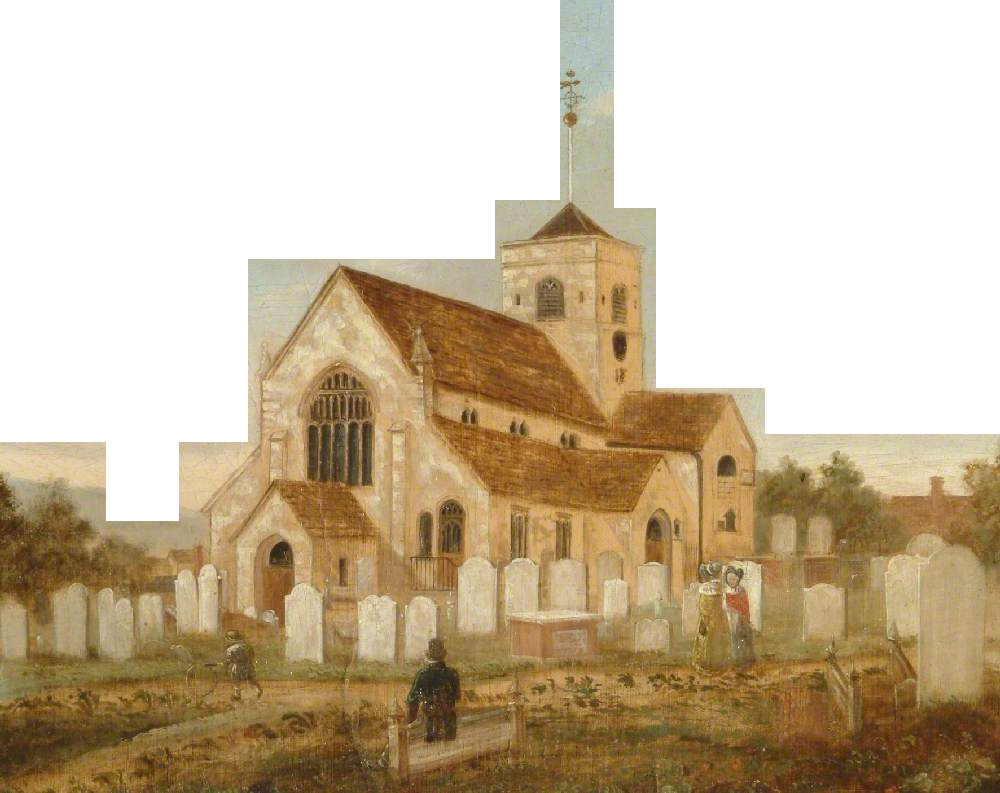
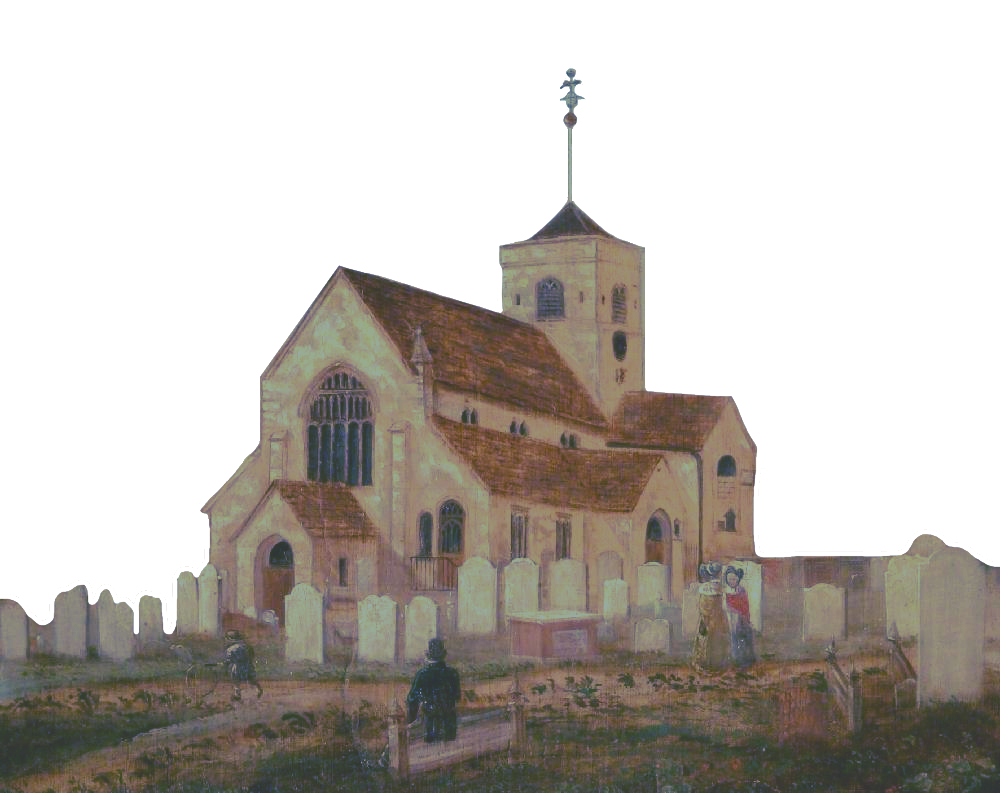
medieval period continued

diff --git a/data/medieval/medieval.html b/data/medieval/medieval.html
@@ -9,6 +9,7 @@
   <link rel="stylesheet" href="/src/parallax.css"/>
   <!-- ERA SPECIFIC CSS -->
   <link rel="stylesheet" href="/data/medieval/medieval.css" />
+  <link rel="stylesheet" href="/data/medieval/medieval-dialogue.css" />
 </head>
 
 <body>
@@ -19,16 +20,21 @@
   <div id="scene-container">
     <!-- The lower the line, the more in front the image is (higher depth value) -->
     <div class="parallax-item parallax-full bg" data-depth="0.1" data-tilt="0.08"></div>
-    <div class="parallax-item parallax-full clouds" data-depth="0.14" data-tilt="0.1"></div>
+
+    <div class="parallax-item parallax-full castle" data-depth="0.1" data-tilt="0.1"></div>
+    <!-- CHURCH ! -->
+    <img class="parallax-item" data-depth="0.14" data-tilt="0.11" id='church' src="/data/medieval/media/church.png">
+
+    <div class="parallax-item parallax-full ground2" data-depth="0.13" data-tilt="0.1"></div>
+    <div class="parallax-item parallax-full ground1" data-depth="0.155" data-tilt="0.1"></div>
 
     <!-- CRAB ! -->
     <img class="parallax-item" data-depth="0.4" data-tilt="1" id='crab' src="/data/dinosaurs/media/crabMain.png">
 
     <!-- WAR ! -->
-    <img class="parallax-item" data-depth="0.4" data-tilt="0.2" id='war' src="/data/medieval/media/war.png">
-
-    <!-- CHURCH ! -->
-    <img class="parallax-item" data-depth="0.4" data-tilt="0.2" id='church' src="/data/medieval/media/church.png">
+    <img class="parallax-item" data-depth="0.22" data-tilt="0.22" id='war' src="/data/medieval/media/war.png">
+    
+    <div class="parallax-item parallax-full trees" data-depth="0.34" data-tilt="0.22"></div>
 
     <div class="parallax-item test-title">TIS BUT A SCRATCH</div>
     <button type="button" id="nextSceneBtn" class="next-button">GO NEXT SCENE!</button>

diff --git a/data/medieval/medieval-dialogue.css b/data/medieval/medieval-dialogue.css
@@ -1,0 +1,57 @@
+@import url('https://fonts.googleapis.com/css2?family=Chelsea+Market&display=swap');
+@import url('https://fonts.googleapis.com/css2?family=Roboto+Slab:wght@100..900&display=swap');
+
+:root {
+  --bg: #e4ddbf;
+  --surface: #f3efeb;
+  --border: #100929;
+  --text: #100929;
+  --text-dim: #100929;
+  --accent: #100929;
+  --accent-dim: #100929;
+  --speaker-color: #100929;
+}
+
+#dialogue-box {
+  top: 2rem;
+
+}
+
+#speaker {
+  font-family: "Chelsea Market", sans-serif;
+  font-size: 1.45rem;
+  font-weight: 500;
+  text-transform: uppercase;
+}
+
+#dialogue-text {
+  font-family: "Roboto Slab";
+  font-size: 1.2rem;
+}
+
+#choices button {
+  font-family: "Roboto Slab";
+  font-size: 1.05rem;
+}
+
+#choices button:hover {
+  border-color: var(--accent);
+  color: var(--text);
+  background: #d5e2e6;
+}
+
+#continue-hint {
+  font-family: "Chelsea Market", sans-serif;
+  font-size: 0.8rem;
+}
+
+.next-button {
+  font-family: "Roboto Slab";
+  font-weight: 900;
+  font-size: 1rem;
+}
+
+.test-title {
+  font-family: "Chelsea Market", sans-serif;
+  font-size: 2.3rem;
+}

diff --git a/data/medieval/medieval.css b/data/medieval/medieval.css
@@ -8,7 +8,7 @@ img {
   position: absolute;
   width: 256px;
   height: 172px;
-  left: 1%;
+  left: 60%;
   bottom: 10%;
   scale: 1.3;
   border: none;
@@ -17,10 +17,10 @@ img {
 
 #war {
   position: absolute;
-  width: 600;
-  height: 452px;
-  left: 30%;
-  bottom: 10%;
+  width: 500;
+  height: 400px;
+  left: 20%;
+  bottom: 0%;
   scale: 1.3;
   border: none;
   cursor: pointer;
@@ -28,10 +28,10 @@ img {
 
 #church {
   position: absolute;
-  width: 960;
-  height: 728px;
-  left: 30%;
-  bottom: 10%;
+  width: 700;
+  height: 500px;
+  left: 62%;
+  bottom: 22%;
   scale: 1.3;
   border: none;
   cursor: pointer;
@@ -49,3 +49,15 @@ img {
 }
 
 .bg { background-image: url('../medieval/media/sky.png');}
+
+.ground1 { background-image: url('../medieval/media/ground1.png');}
+
+.ground2 { background-image: url('../medieval/media/ground2.png');}
+
+.castle { background-image: url('../medieval/media/castleBack.png');}
+
+.trees {
+  width: 105vw;
+  height: 105vh; 
+  background-image: url('../medieval/media/treesForeground.png');
+}

diff --git a/src/parallax.css b/src/parallax.css
@@ -62,6 +62,7 @@ body, html {
     background-size: cover;
     background-position: center;
     background-repeat: no-repeat;
+    pointer-events: none;
 }
 
 .clickthru {
